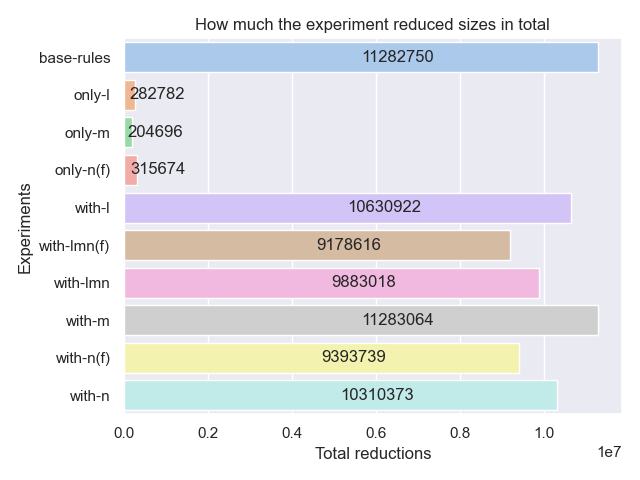
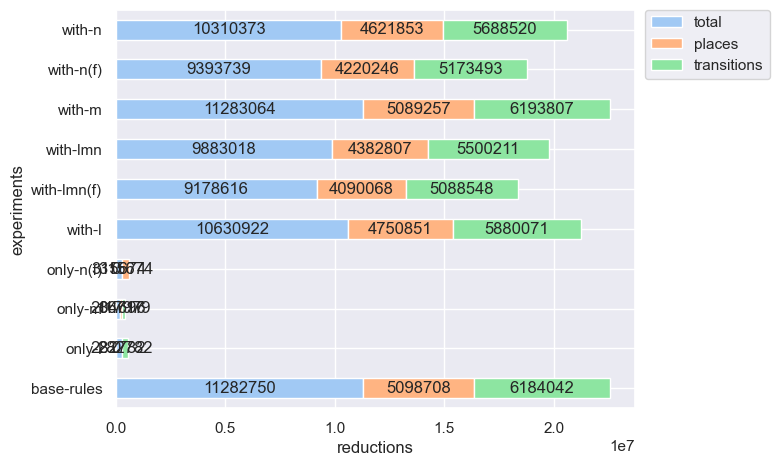
put numbers and make horizontal

diff --git a/graph_utility/total_reductions.py b/graph_utility/total_reductions.py
@@ -45,35 +45,45 @@ def plot(data_list, test_names, graph_dir):
     for data in data_list:
         data.drop(rows_to_delete, inplace=True)
 
-    sums = []
+    total = []
+    transitions = []
+    places = []
     for test_index, data in enumerate(data_list):
-        sum = 0
+        total_reduction_row = 0
+        transition_reduction_row = 0
+        place_reduction_row = 0
         for index, row in data.iterrows():
             pre_size = row['prev place count'] + row['prev transition count']
             reduced_size = row['post place count'] + row['post transition count']
-            sum += (pre_size - reduced_size)
-        sums.append(sum)
+            total_reduction_row += (pre_size - reduced_size)
+            transition_reduction_row += row['prev transition count'] - row['post transition count']
+            place_reduction_row += row['prev place count'] - row['post place count']
+        total.append(total_reduction_row)
+        transitions.append(transition_reduction_row)
+        places.append(place_reduction_row)
 
-    points_df = pd.DataFrame({'names': test_names, 'sums': sums})
+    new_indices = dict()
+    for index, name in enumerate(test_names):
+        new_indices[index] = name
+
+    points_df = pd.DataFrame({'total': total, 'places': places, 'transitions': transitions})
+    points_df.rename(index=new_indices, inplace=True)
+    print(points_df)
 
     sns.set_theme(style="darkgrid", palette="pastel")
-    plot = sns.barplot(x='sums', y='names', data=points_df)
-    plt.xlabel("Total reductions")
-    plt.ylabel('Experiments')
-    plt.title(f'How much the experiment reduced sizes in total')
-    plt.xscale('linear')
-    plt.tight_layout()
+    plot = points_df.plot(kind='barh', stacked=True)
 
-    # This for-loop puts the number of times each rule has been used, on top of the bar
+    plt.legend(bbox_to_anchor=(1.02, 1), loc='best', borderaxespad=0)
+
+    plt.xlabel("reductions")
+    plt.ylabel('experiments')
+    # For each patch (basically each rectangle within the bar), add a label.
     for p in plot.patches:
-        width = p.get_width()  # get bar length
-        plot.text(width/2,  # set the text at 1 unit right of the bar
-                  p.get_y() + p.get_height() / 2,  # get Y coordinate + X coordinate / 2
-                  int(width),  # set variable to display, 2 decimals
-                  ha='left',  # horizontal alignment
-                  va='center')  # vertical alignment
+        left, bottom, width, height = p.get_bbox().bounds
+        plot.annotate(int(width), xy=(left + width / 2, bottom + height / 2),
+                      ha='center', va='center')
 
-    plt.savefig(graph_dir + 'total_reductions.png')
+    plt.savefig(graph_dir + 'total_reductions.png', bbox_inches='tight')
     plt.clf()
 
 

diff --git a/graph_utility/all_graphs.py b/graph_utility/all_graphs.py
@@ -24,18 +24,18 @@ def plot_all(data_list, test_names, graph_dir):
     # Call each graph function with relevant data
     answer_simplification_bars.plot(data_list, test_names, graph_dir)
     print(f"1/{num_graphs} graphs done")
-    rule_usage_absolute.plot(data_list, test_names, graph_dir)
+    #rule_usage_absolute.plot(data_list, test_names, graph_dir)
     print(f"2/{num_graphs} graphs done")
-    rule_usage_percentage.plot(data_list, test_names, graph_dir)
+    #rule_usage_percentage.plot(data_list, test_names, graph_dir)
     print(f"3/{num_graphs} graphs done")
-    reduced_size.plot(data_list, test_names, graph_dir)
+    #reduced_size.plot(data_list, test_names, graph_dir)
     print(f"4/{num_graphs} graphs done")
-    time_memory_combined.plot(data_list, test_names, graph_dir)
+    #time_memory_combined.plot(data_list, test_names, graph_dir)
     print(f"5/{num_graphs} graphs done")
-    metrics = ['time', 'memory']
-    for metric in metrics:
-        time_memory.plot(data_list, test_names, graph_dir, metric)
-        print(f"{6 + metrics.index(metric)}/{num_graphs} graphs done")
+    #metrics = ['time', 'memory']
+    #for metric in metrics:
+        #time_memory.plot(data_list, test_names, graph_dir, metric)
+        #print(f"{6 + metrics.index(metric)}/{num_graphs} graphs done")
     total_reductions.plot(data_list, test_names, graph_dir)
 
 
